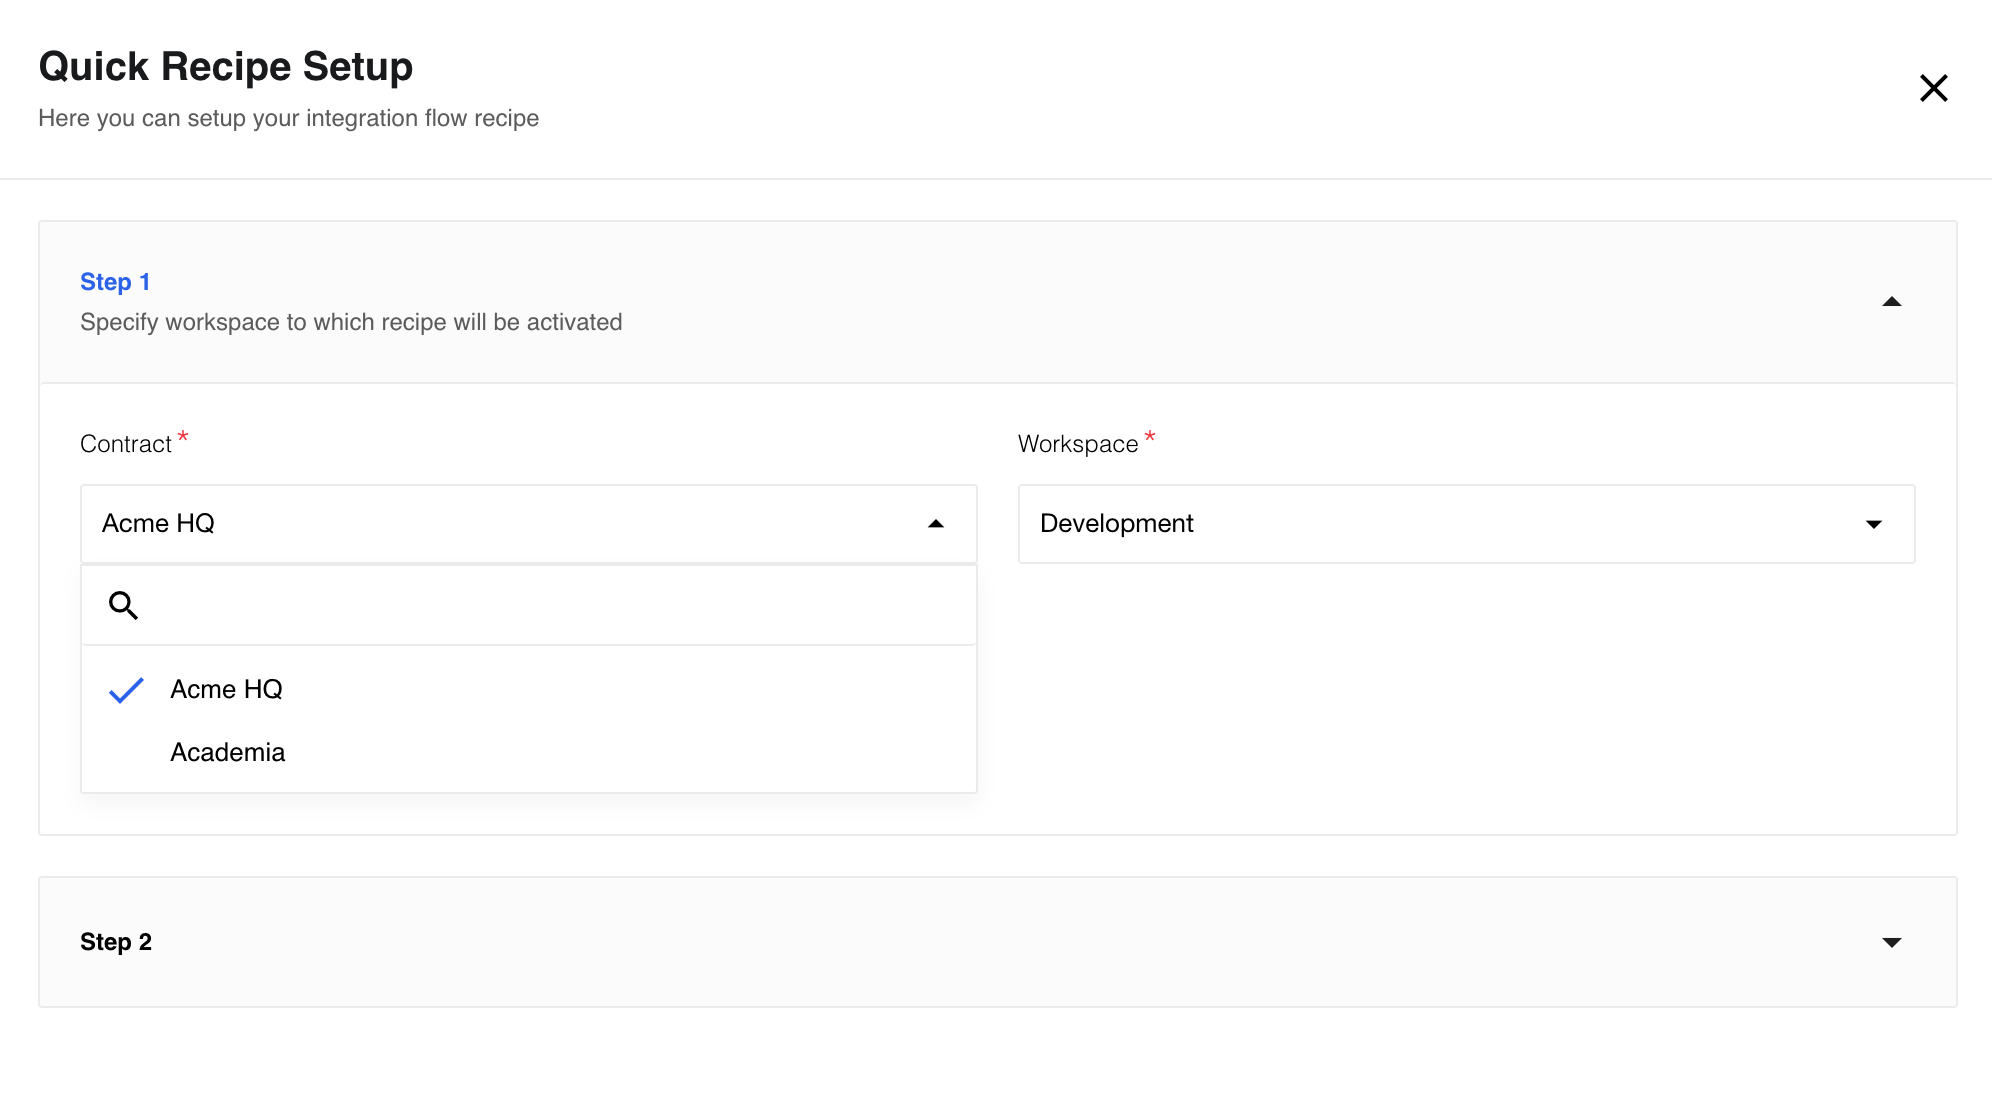
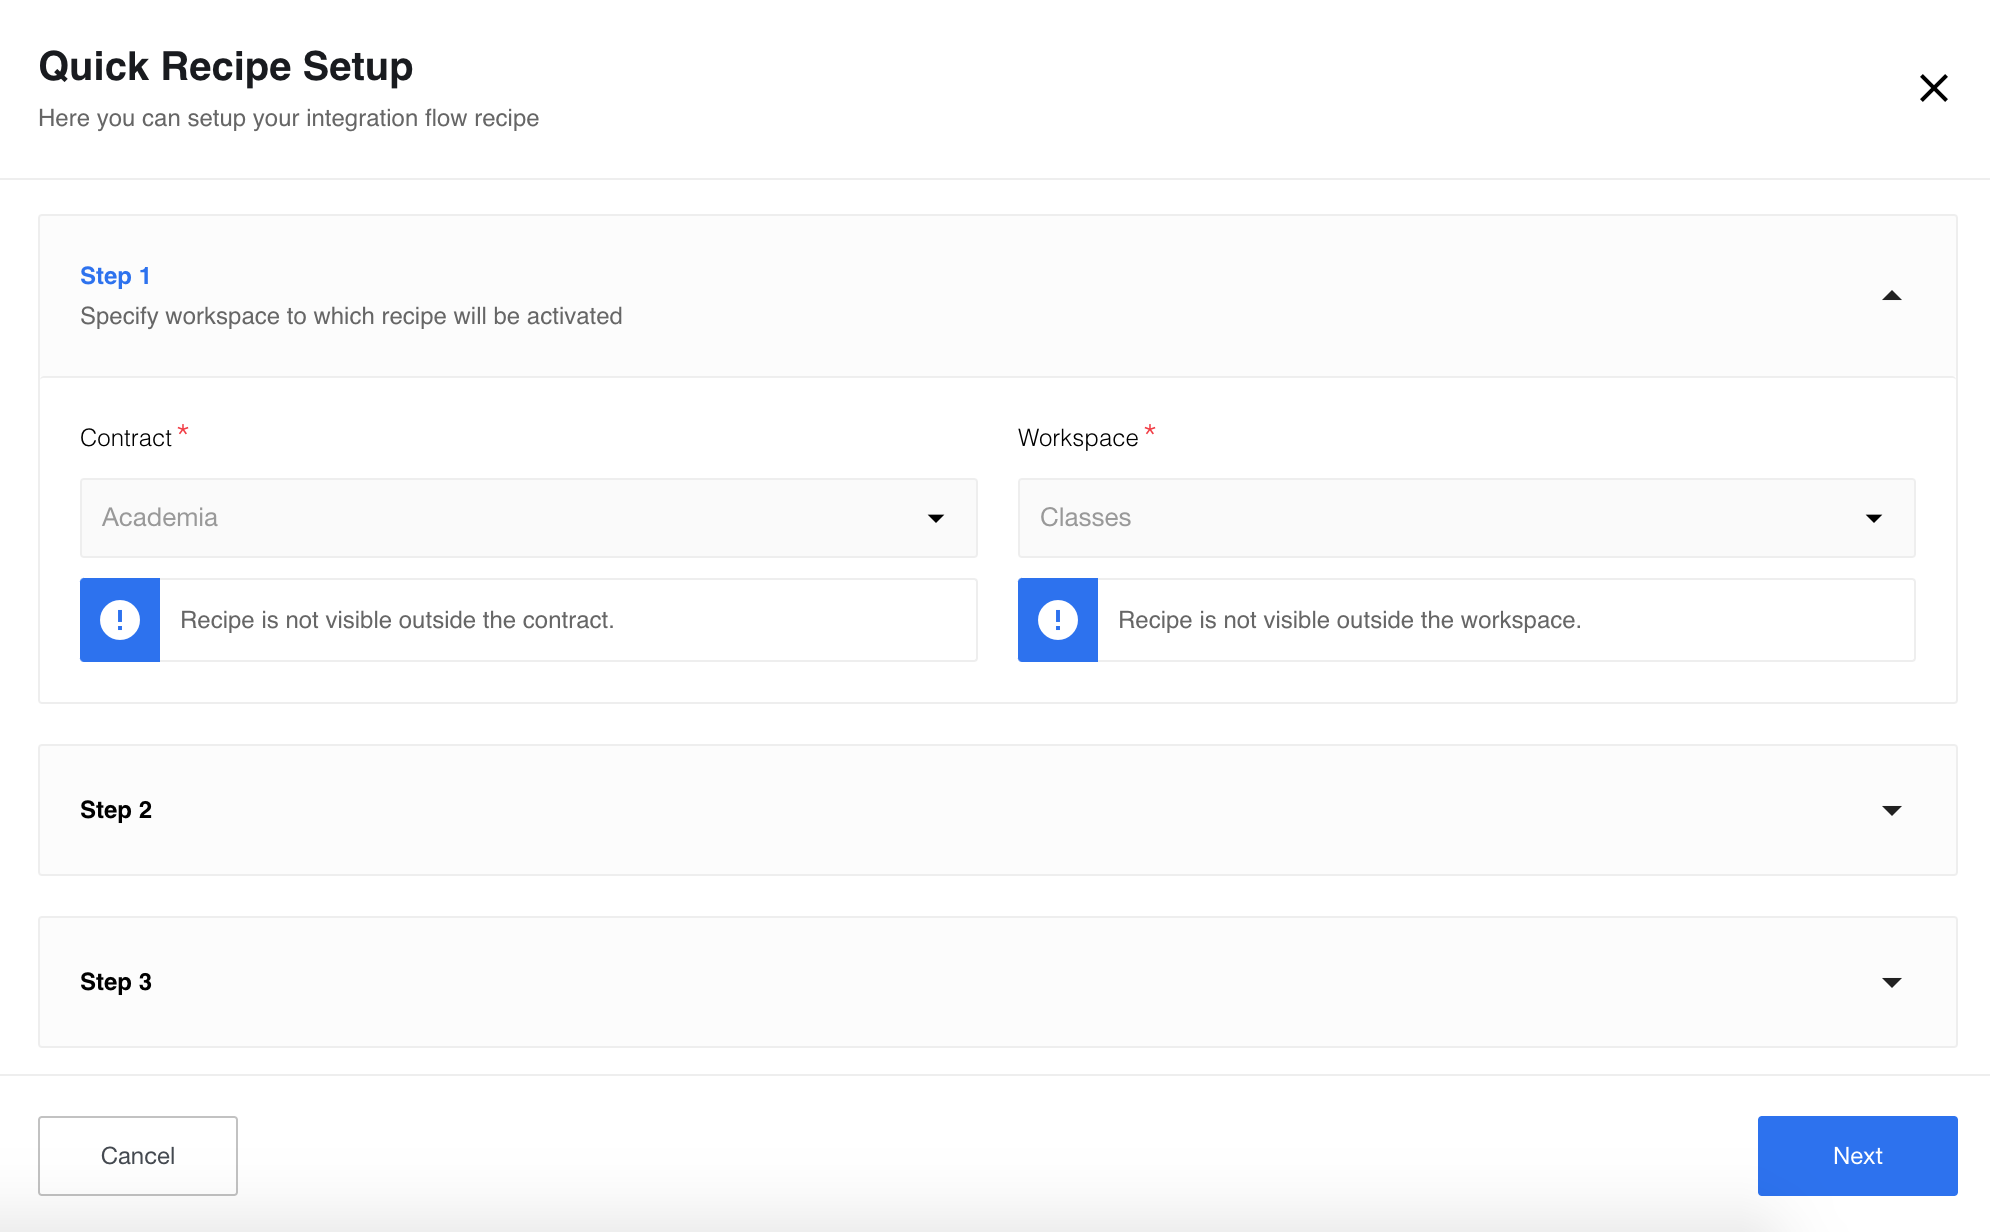
Creating recipes article update part 6

diff --git a/content/_guides/creating-recipes.md b/content/_guides/creating-recipes.md
@@ -6,13 +6,12 @@ description: This document provides information on how to create a recipe, and h
 order: 1
 category: recipes
 redirect_from:
-  - /guides/creating-recipes.html#creating-recipes-from-existing-flows
+  - /guides/creating-recipes.html#coming-soon-recipes-ui
 ---
 
 This document provides information on how to [create Recipes from UI](#creating-recipes-from-ui), [create recipes using API](#creating-recipes-using-api) and how to [manage Recipes using API](#managing-recipes-using-api).
 
 [Recipes](/getting-started/recipes) allow users to share [Flow](/getting-started/integration-flow) templates with others without disclosing their non-shareable data ([Credentials](/getting-started/credential), Fields, Variables).
-
 
 ## Creating Recipes from UI
 
@@ -24,19 +23,40 @@ Right now we are developing some stylish UI for Recipes functionality. At the mo
 
 ![Activate Recipe](/assets/img/integrator-guide/creating-recipes/activate-recipe.png)
 
-  **2.** First you have to specify Contract and Workspace to which the Recipe will be activated:
+  **2.** First you have to specify Contract and Workspace to which the Recipe will be activated. The recipe has an attribute visibility, which indicates how the recipe is shared by other clients. The default recipe visibility is `workspace`:
 
 ![Contract and Workspace](/assets/img/integrator-guide/creating-recipes/specify.png)  
 
-  The recipe visibility depends on your access level. If your access level is not high enough, you will be notified about this during recipe configuration:
+You can change the visibility using the API function [Update a recipe visibility](#update-a-recipe-visibility):
 
-![Visibility](/assets/img/integrator-guide/creating-recipes/visibility.png)  
+```
+curl {{site.data.tenant.apiBaseUri}}.io/v2/recipes/{RECIPE_ID}/visibility \
+  -X PATCH \
+  -u {EMAIL}:{APIKEY} \
+  -H 'Accept: application/json' \
+  -H 'Content-Type: application/json' -d '
+   {
+     "data": {
+       "visibility": "contract"
+     }
+   }'
+```
+
+> The **"visibility"** field can take the following values: **"workspace"**, **"contract"** or **"tenant"**.
+
+After changing the visibility to **contract**, the recipe setup will look like this:
+
+![Contract visibility](/assets/img/integrator-guide/creating-recipes/contract-visibility.png)
+
+And after changing the visibility to **tenant**, the recipe setup will look like this:
+
+![Tenant visibility](/assets/img/integrator-guide/creating-recipes/tenant-visibility.png)
 
   **3.** Here you can setup your credentials for every step. You can verify(**1**), edit(**2**) or delete(**3**) credentials and choose credentials you need(**4**):
 
-![Setup recipe](/assets/img/integrator-guide/creating-recipes/recipe-setup.png)
+![Setup recipe credential](/assets/img/integrator-guide/creating-recipes/recipe-cred-setup.png)
 
-  **4.**After that you have to click to "Finish" and new identical flow with the same name will be created:
+  **4.** After that you have to click to "Finish" and new identical flow with the same name will be created:
 
 ![New flow](/assets/img/integrator-guide/creating-recipes/new-flow.png)
 
@@ -65,7 +85,7 @@ To create a Recipe from a chosen Flow, use the following request, provided you h
 
 To see parameters and examples please visite [API-Documentation]({{site.data.tenant.apiBaseUri}}/docs/v2/#create-a-recipe).
 
-## Managing recipes
+## Managing recipes using API
 
 The following actions with Recipes are available:
 
@@ -118,8 +138,6 @@ To update a Recipe visibility please use the following request:
 This request is authorized depend on specified visibility level for a user that has next permission:
 
  * to `tenant` if user has permission `tenant.recipe.edit_visibility_tenant`
-
- * to `global` if user has permission `global.recipe.edit_visibility_global`
 
  * to `contract` if user has permission `workspaces.recipe.edit`
 
